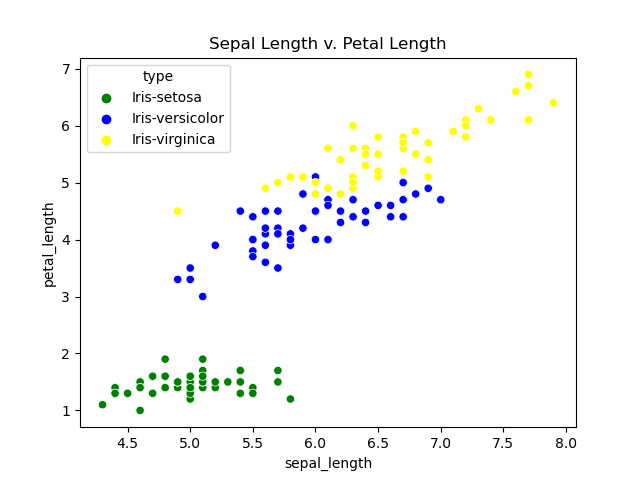
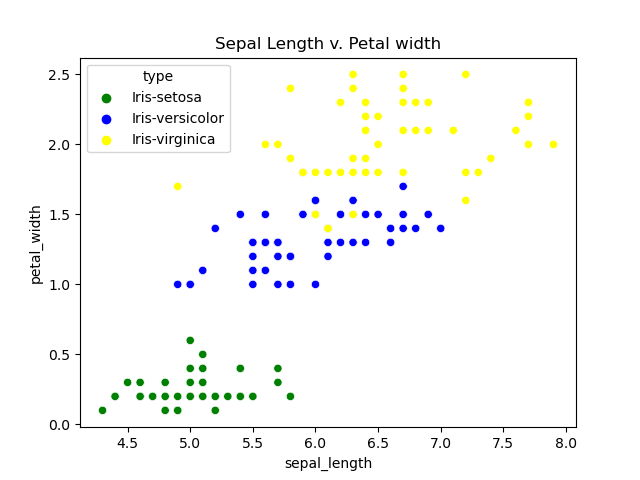
updates to readme, added code for another scatter plot

diff --git a/analysis.py b/analysis.py
@@ -46,19 +46,13 @@ def write_to_file():
     median_data = iris["petal_width"].median()
     print("Sum of petal width:",sum_data, "\nMean of petal width:", mean_data, "\nMedian of petal width:",median_data)
     print("******************")
-
-#print initial 5 rows
     print("Initial 5 Rows")
     print(iris.head())
     print("******************")
-#print column titles
     print("columns in this table are",iris.columns)
     print("******************")
-#print count of each type
     print("count of each type is\n",iris.type.value_counts())
     print("******************")
-
-#print qty rows,columns
     print("shape of this table is :",iris.shape)
     print("******************")
 #https://www.w3schools.com/python/pandas/ref_df_describe.asp
@@ -76,7 +70,6 @@ def hist():
     sepal_width_hist()
     petal_length_hist()
     petal_width_hist()
-    #
     return
 
 def box():
@@ -125,6 +118,7 @@ def scatter_sep_len_v_wid():
     plt.ylabel('sepal_width')
     plt.savefig("sepal_length_v_sepal_width_scatter.png")
     plt.show()
+
 def scatter_sep_len_v_pet_len():
     sns.scatterplot(x='sepal_length', y='petal_length', data=iris, hue = "type",palette = ["green","blue","yellow"])
     plt.title('Sepal Length v. Petal_Length')
@@ -133,41 +127,30 @@ def scatter_sep_len_v_pet_len():
     plt.savefig("Sepal Length v. Petal_Length_scatter.png")
     plt.show()
 
-
-    
 #scatterplt sepal_length & petal_length
 def scatter_sep_len_v_pet_wid():
-    sns.scatterplot(x='sepal_length', y='petal_length', data=iris, hue = "type",palette = ["green","blue","yellow"])
-    plt.title('Sepal Length v. Petal Length')
+    sns.scatterplot(x='sepal_length', y='petal_width', data=iris, hue = "type",palette = ["green","blue","yellow"])
+    plt.title('Sepal Length v. Petal width')
     plt.xlabel('sepal_length')
-    plt.ylabel('petal_length')
+    plt.ylabel('petal_width')
     plt.savefig("sepal_length_v_petal_width_scatter.png")
     plt.show()
 
 #scatterplt sepal_width & petal_width
-
-def scatter_sep_len_v_wid():
-    sns.scatterplot(x='sepal_length', y='sepal_width', data=iris, hue = "type",palette = ["green","blue","yellow"])
-    plt.title('Sepal Length v. Sepal Width')
-    plt.xlabel('sepal_length')
-    plt.ylabel('sepal_width')
-    plt.savefig("sepal_length_v_sepal_width_scatter.png")
-    plt.show()
-
-def scatter_sep_wid_v_pet_wid():
-    sns.scatterplot(x='sepal_width', y='petal_width', data=iris, hue = "type",palette = ["green","blue","yellow"])
-    plt.title('sepal_width v petal_width')
+def scatter_sep_wid_v_pet_length():
+    sns.scatterplot(x='sepal_width', y='petal_length', data=iris, hue = "type",palette = ["green","blue","yellow"])
+    plt.title('sepal_width v petal_length')
     plt.xlabel('sepal_width')
-    plt.ylabel('petal_width')
-    plt.savefig("sepal_width_v_petalal_width_scatter.png")
+    plt.ylabel('petal_length')
+    plt.savefig("sepal_width_v_petal_length_scatter.png")
     plt.show()
     #print("programme running")
 
 def scatter():
-    scatter_sep_len_v_wid()
-    scatter_sep_len_v_pet_wid()
-    scatter_sep_wid_v_pet_wid()
-    scatter_sep_len_v_pet_len()
+    scatter_sep_len_v_wid() #
+    scatter_sep_len_v_pet_len() #
+    scatter_sep_len_v_pet_wid() #
+    scatter_sep_wid_v_pet_length()
 
 def sepal_length_hist():
     plt.figure(figsize = (10,10))
@@ -223,8 +206,6 @@ def petal_width_hist():
     plt.savefig('petal_width_histogram.png')
     plt.show()
 
-
-
 #https://www.youtube.com/watch?v=b7JuBsswDlo
 def pair_plot():
     plt.figure(figsize = (9,9)) 
@@ -232,8 +213,7 @@ def pair_plot():
     sns.pairplot(iris, hue="type",height = 3)
     plt.savefig("pairplot.png")
     plt.show()
-def main():      
-                
+def main():                    
             hist()
             scatter()
             box()

diff --git a/README.md b/README.md
@@ -87,10 +87,12 @@ Ronald Fisher
 <li>Sepal width indicates roughly normal distribution between 3.0 & 3.5</li>
 
 # Scatter #
-<p>The program generates 3 Scatter plots and the output is saved to individual .png files. These compare the following values
+<p>The program generates 4 Scatter plots and the output is saved to individual .png files. These compare the following values
 <li>Sepal_Lenght v Sepal Width</li>
-<li>Sepal_Lenght v Petal Lenght</li>
+<li>Sepal_Lenght v Petal Length</li>>
 <li>Sepal_Lenght v Petal Width</li>
+<li>Sepal_Lenght v Petal Width</li>
+
 </p>
 
 # Scatter plot Conclusion #
